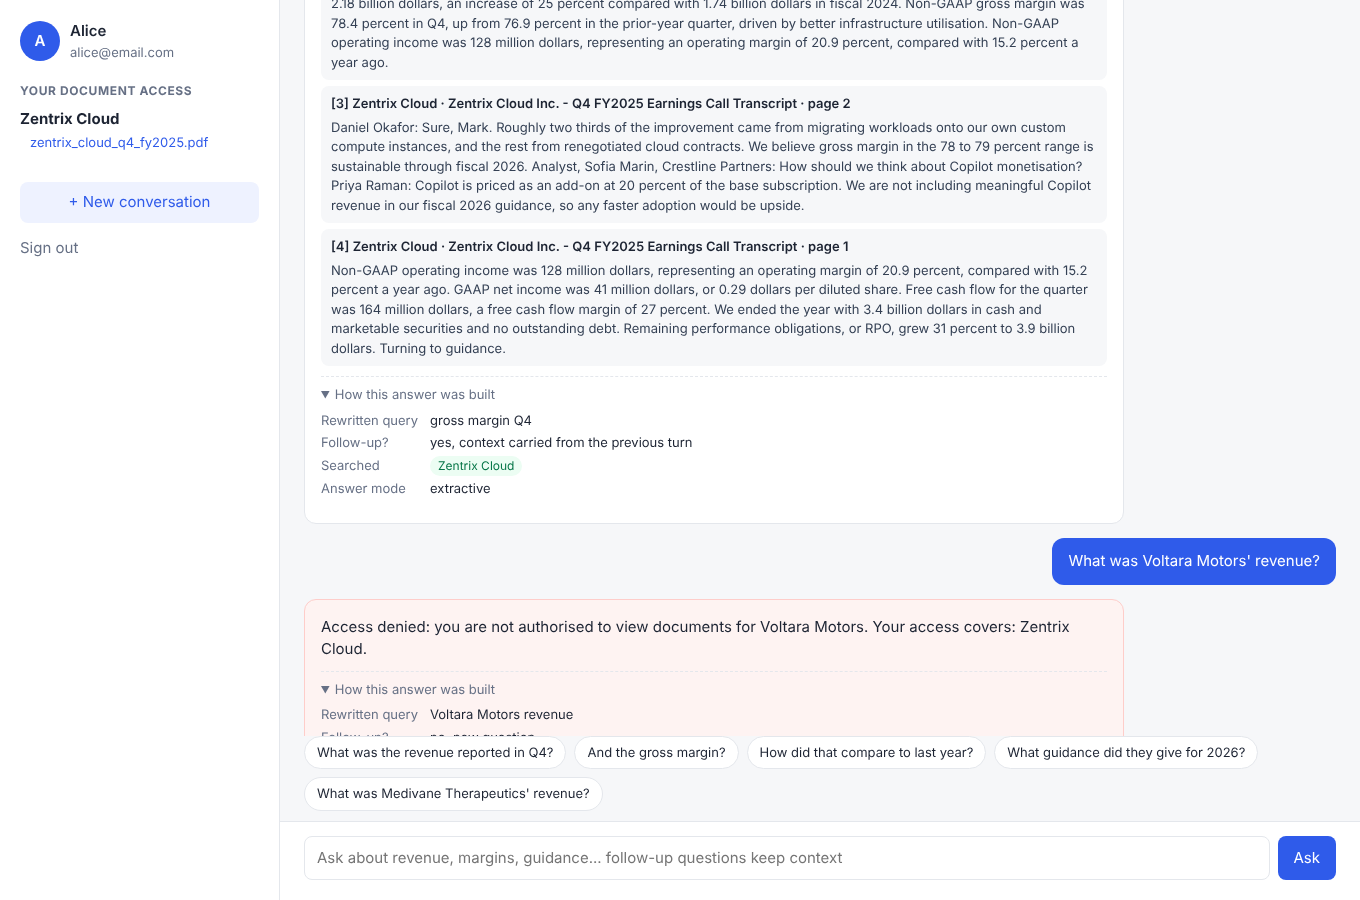
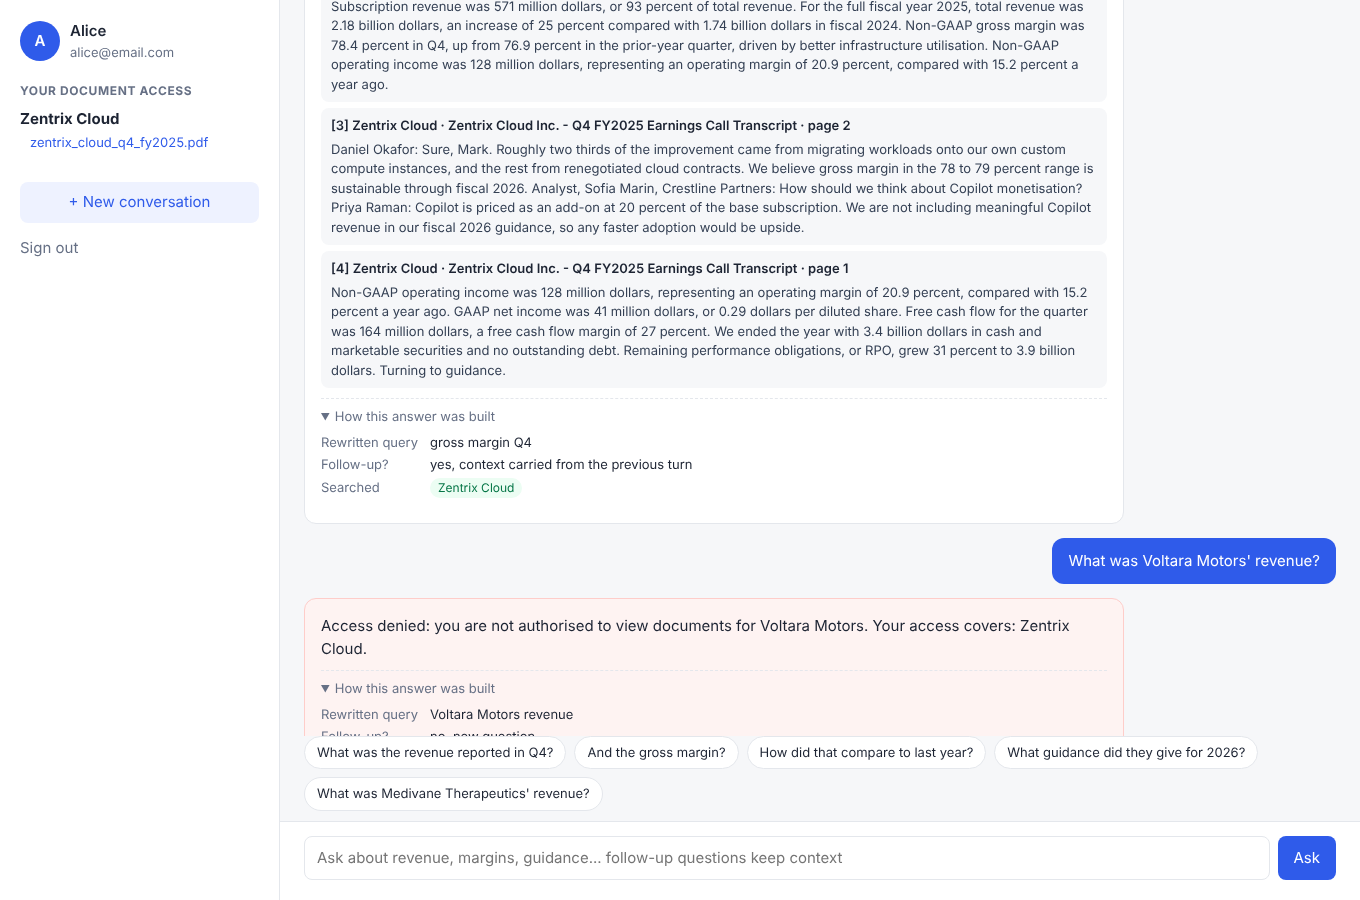
Remove the optional LLM answer mode
Answers are always built from the retrieved excerpts. Drops the anthropic
dependency, the related settings and the answer-mode field in the API and UI.

Claude-Session: https://claude.ai/code/session_01NCBTYahYrDxEyepvnf17ed

Changed region(s): [[0.2471, 0.0, 0.8029, 0.56], [0.2471, 0.6844, 0.7721, 0.7156], [0.2471, 0.7467, 0.3397, 0.7778]]

diff --git a/app/static/app.js b/app/static/app.js
@@ -149,7 +149,6 @@ function addBot(r) {
         ${t.is_followup !== undefined ? `<dt>Follow-up?</dt><dd>${t.is_followup ? "yes, context carried from the previous turn" : "no, new question"}</dd>` : ""}
         ${t.searched_companies ? `<dt>Searched</dt><dd>${pills(t.searched_companies, "ok")}</dd>` : ""}
         ${t.denied_companies && t.denied_companies.length ? `<dt>Blocked</dt><dd>${pills(t.denied_companies, "deny")}</dd>` : ""}
-        ${t.answer_mode ? `<dt>Answer mode</dt><dd>${esc(t.answer_mode)}</dd>` : ""}
       </dl>
     </details>`;
   const sourcesHtml = (r.sources || []).length ? `

diff --git a/app/answer.py b/app/answer.py
@@ -1,33 +1,18 @@
-"""Answer generation from retrieved excerpts.
-
-Two interchangeable answerers:
-
-* ExtractiveAnswerer (default, no API key): picks the sentences from the
-  retrieved chunks that best match the query and quotes them with citations.
-  Fully offline and deterministic.
-* ClaudeAnswerer (optional): sends ONLY the retrieved, access-filtered excerpts
-  plus the user's own conversation history to Claude, which writes a fluent
-  answer with [n] citations. The model never sees the full corpus, so it
-  cannot leak a document the user is not allowed to read.
-"""
+"""Builds an answer by picking the sentences from the retrieved chunks that best
+match the query, each labelled with its company and source number."""
 from __future__ import annotations
 
-import logging
 import re
 
 from .ingest import split_sentences
 from .retriever import Hit
 from .text import query_terms, tokenize
 
-log = logging.getLogger(__name__)
-
 NOT_FOUND = ("I couldn't find anything about that in the documents you have access to. "
              "Try rephrasing, or ask about one of the companies listed on the left.")
 
 
 class ExtractiveAnswerer:
-    name = "extractive"
-
     def __init__(self, idf: dict[str, float], company_names: dict[str, str] | None = None):
         self.idf = idf
         self.company_names = company_names or {}
@@ -72,54 +57,3 @@ class ExtractiveAnswerer:
                 company = self.company_names.get(chunk.company_id, chunk.company_id)
                 picked.append(f"- **{company}:** {s} [{n}]")
         return "Here is what the documents you can access say:\n\n" + "\n".join(picked)
-
-
-SYSTEM_PROMPT = """You answer questions about company earnings-call transcripts for one user.
-You are given numbered excerpts that this user is authorised to read. Use only those excerpts.
-Cite the excerpts you rely on with their number in square brackets, like [1].
-If the excerpts do not contain the answer, say you could not find it in the documents the user has access to; do not use outside knowledge.
-Use the conversation history to understand follow-up questions such as "how did that compare to Q3?".
-Keep answers short: two to five sentences, with the key figures stated exactly as they appear in the excerpts."""
-
-
-class ClaudeAnswerer:
-    name = "claude"
-
-    def __init__(self, model: str, fallback: ExtractiveAnswerer):
-        import anthropic  # imported lazily so the extractive mode needs no extra package
-
-        self._anthropic = anthropic
-        self.client = anthropic.Anthropic()
-        self.model = model
-        self.fallback = fallback
-
-    def answer(self, question: str, standalone: str, hits: list[Hit], history=None) -> str:
-        if not hits:
-            return NOT_FOUND
-        excerpts = "\n\n".join(
-            f"[{n}] {h.chunk.title}, page {h.chunk.page}:\n{h.chunk.text}" for n, h in enumerate(hits, start=1))
-        messages = []
-        for turn in (history or [])[-4:]:
-            messages.append({"role": "user", "content": turn.question})
-            messages.append({"role": "assistant", "content": turn.answer})
-        messages.append({"role": "user", "content": f"Excerpts:\n\n{excerpts}\n\nQuestion: {question}"})
-        try:
-            response = self.client.beta.messages.create(
-                model=self.model,
-                max_tokens=4000,
-                system=SYSTEM_PROMPT,
-                output_config={"effort": "low"},
-                betas=["server-side-fallback-2026-07-01"],
-                fallbacks="default",
-                messages=messages,
-            )
-        except self._anthropic.APIConnectionError as e:
-            log.warning("Claude unreachable, using extractive answer: %s", e)
-            return self.fallback.answer(question, standalone, hits, history)
-        except self._anthropic.APIStatusError as e:
-            log.warning("Claude API error %s, using extractive answer", e.status_code)
-            return self.fallback.answer(question, standalone, hits, history)
-        if response.stop_reason == "refusal":
-            return self.fallback.answer(question, standalone, hits, history)
-        text = "".join(b.text for b in response.content if b.type == "text").strip()
-        return text or self.fallback.answer(question, standalone, hits, history)

diff --git a/app/service.py b/app/service.py
@@ -4,21 +4,20 @@
   2. Contextualise         - rewrite a follow-up into a standalone query using this user's history
   3. Authorisation check   - if the question names companies the user may not read, refuse those
   4. Retrieve              - BM25 search restricted to the allowed (and focused) companies
-  5. Answer                - extractive or Claude, from the retrieved excerpts only
+  5. Answer                - built from the retrieved excerpts only
   6. Remember + audit      - store the turn in the user's conversation, write an audit log line
 """
 from __future__ import annotations
 
 import json
 import logging
-import os
 import threading
 from datetime import datetime, timezone
 from pathlib import Path
 
 from . import config
 from .access import AccessPolicy, User
-from .answer import ClaudeAnswerer, ExtractiveAnswerer
+from .answer import ExtractiveAnswerer
 from .contextualizer import resolve
 from .ingest import load_corpus
 from .memory import ConversationStore, Turn
@@ -28,7 +27,7 @@ log = logging.getLogger(__name__)
 
 
 class QAService:
-    def __init__(self, policy: AccessPolicy, retriever: BM25Retriever, answer_mode: str = "auto",
+    def __init__(self, policy: AccessPolicy, retriever: BM25Retriever,
                  audit_path: Path | None = None, top_k: int = 4, max_turns: int = 10):
         self.policy = policy
         self.retriever = retriever
@@ -36,17 +35,14 @@ class QAService:
         self.top_k = top_k
         self.audit_path = audit_path
         self._audit_lock = threading.Lock()
-        extractive = ExtractiveAnswerer(retriever.idf, {c.id: c.name for c in policy.companies.values()})
-        use_claude = answer_mode == "claude" or (answer_mode == "auto" and os.getenv("ANTHROPIC_API_KEY"))
-        self.answerer = ClaudeAnswerer(config.CLAUDE_MODEL, extractive) if use_claude else extractive
-        log.info("Answer mode: %s", self.answerer.name)
+        self.answerer = ExtractiveAnswerer(retriever.idf, {c.id: c.name for c in policy.companies.values()})
 
     @classmethod
     def from_config(cls) -> "QAService":
         policy = AccessPolicy.load(config.ACCESS_FILE)
         chunks = load_corpus(config.PDF_DIR, policy, config.CHUNK_WORDS, config.OVERLAP_SENTENCES)
         log.info("Indexed %d chunks from %d documents", len(chunks), len({c.document for c in chunks}))
-        return cls(policy, BM25Retriever(chunks), config.ANSWER_MODE, config.LOG_DIR / "audit.jsonl",
+        return cls(policy, BM25Retriever(chunks), config.LOG_DIR / "audit.jsonl",
                    config.TOP_K, config.MAX_HISTORY_TURNS)
 
     # ------------------------------------------------------------------
@@ -92,7 +88,6 @@ class QAService:
                           "topic": r.topic, "period": r.period},
                 "searched_companies": [self.policy.company_name(c) for c in search_scope_list],
                 "denied_companies": [self.policy.company_name(c) for c in denied],
-                "answer_mode": self.answerer.name,
             },
         }
         self._audit(user, result)

diff --git a/app/config.py b/app/config.py
@@ -15,10 +15,3 @@ OVERLAP_SENTENCES = int(os.getenv("DOCQA_OVERLAP_SENTENCES", "1"))
 
 TOP_K = int(os.getenv("DOCQA_TOP_K", "4"))
 MAX_HISTORY_TURNS = int(os.getenv("DOCQA_MAX_HISTORY_TURNS", "10"))
-
-# Answer generation:
-#   "extractive" - no API key needed, answers are the best matching sentences (default when no key)
-#   "claude"     - uses the Anthropic API to write a grounded answer from the retrieved excerpts
-#   "auto"       - "claude" if ANTHROPIC_API_KEY is set, otherwise "extractive"
-ANSWER_MODE = os.getenv("DOCQA_ANSWER_MODE", "auto").lower()
-CLAUDE_MODEL = os.getenv("DOCQA_CLAUDE_MODEL", "claude-opus-5-5")

diff --git a/tests/conftest.py b/tests/conftest.py
@@ -8,7 +8,6 @@ import pytest
 ROOT = Path(__file__).resolve().parent.parent
 sys.path.insert(0, str(ROOT))
 os.environ.setdefault("DOCQA_LOG_DIR", tempfile.mkdtemp())
-os.environ["DOCQA_ANSWER_MODE"] = "extractive"  # tests must be deterministic and offline
 
 
 @pytest.fixture(scope="session")

diff --git a/app/main.py b/app/main.py
@@ -63,7 +63,7 @@ def index():
 
 @app.get("/api/health")
 def health():
-    return {"status": "ok", "chunks": len(service.retriever.chunks), "answer_mode": service.answerer.name}
+    return {"status": "ok", "chunks": len(service.retriever.chunks)}
 
 
 @app.get("/api/demo-users")
